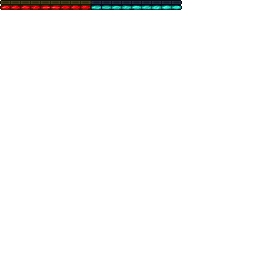
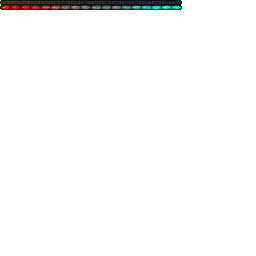
Updated Karma Bar GUI and fixed Karma Bar rendering

Changed region(s): [[0.125, 0.0, 0.5625, 0.0625]]

diff --git a/MCP/src/minecraft/demonmodders/Crymod/Client/ClientTickHandler.java b/MCP/src/minecraft/demonmodders/Crymod/Client/ClientTickHandler.java
@@ -54,6 +54,9 @@ public class ClientTickHandler extends Gui implements ITickHandler {
 			// the bar itself
 			if (karma != 0) {
 				int rescaledKarmaWidth = (int)(Math.abs(clientKarma.getKarma()) / (float)PlayerKarmaManager.MAX_KARMA_VALUE * (float)182);
+				if (rescaledKarmaWidth > 91) {
+					rescaledKarmaWidth = 91;
+				}
 				
 				int barTextureXStart = karma > 0 ? 91 : 91 - rescaledKarmaWidth;
 				

diff --git a/MCP/src/common/demonmodders/Crymod/Common/PlayerKarma.java b/MCP/src/common/demonmodders/Crymod/Common/PlayerKarma.java
@@ -8,7 +8,7 @@ import net.minecraft.src.EntityPlayer;
 
 public class PlayerKarma {
 	
-	private int karma = 0;
+	private int karma = 50;
 	private final EntityPlayer player;
 	
 	public PlayerKarma(EntityPlayer player) {
